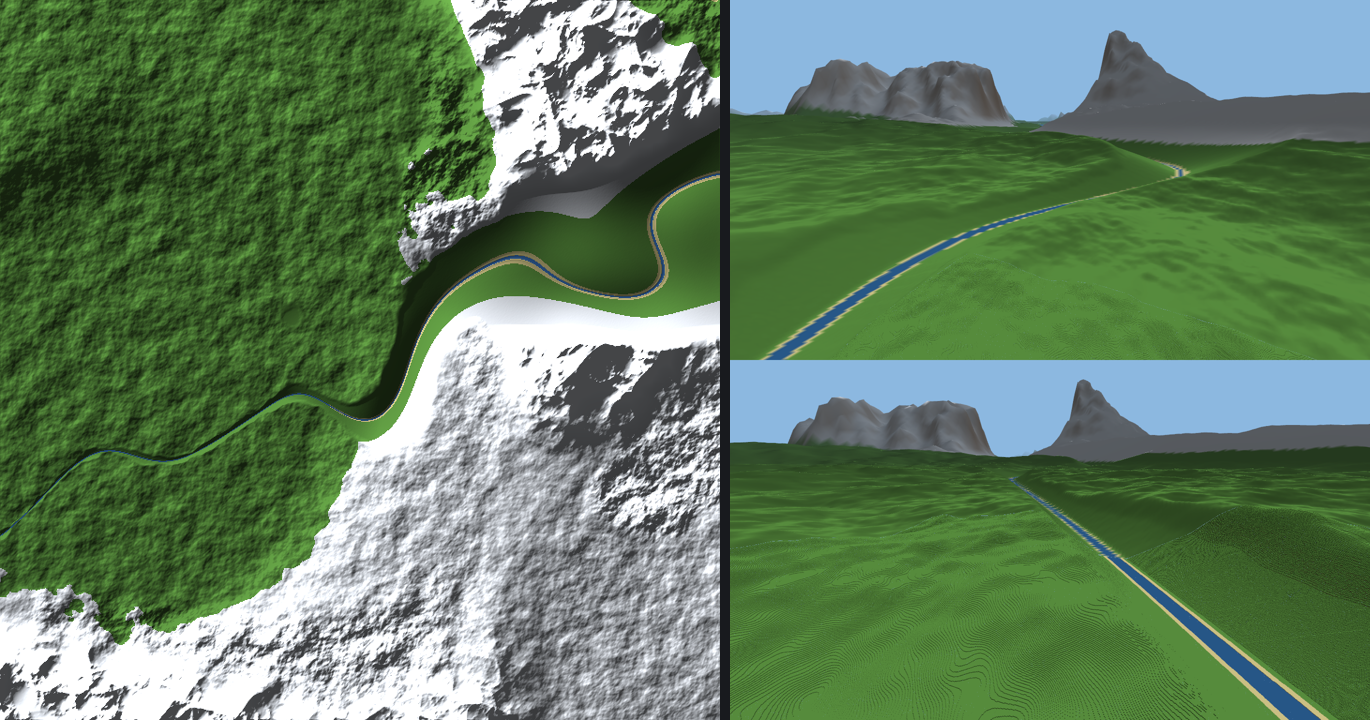
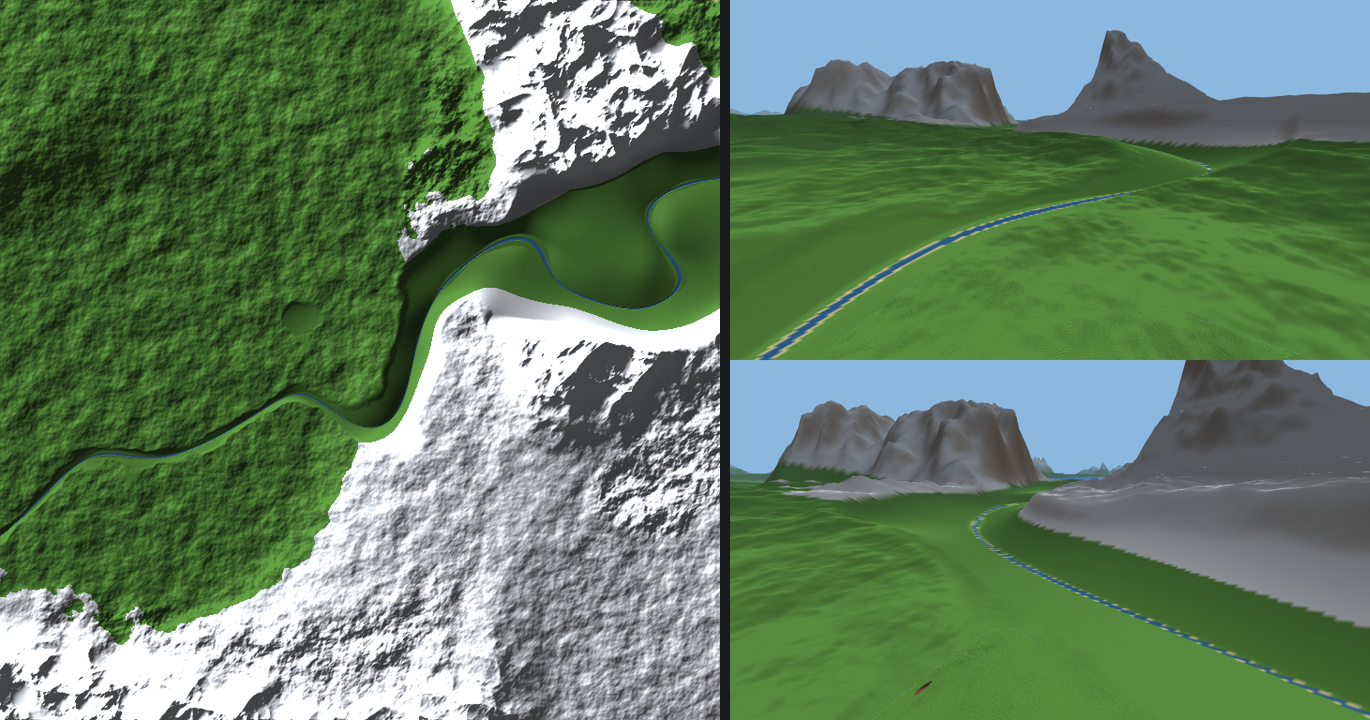
Р30: реки - сети монотонных спусков; разнообразие русел
Уровень воды = минимум земли на всём пути выше по течению (по дереву стока до истоков) минус блок:
только вниз и не выше земли; подъёмы прорезаются ущельем, обрывы дают водопады. Ширина, глубина,
пойма, крутизна стенок и извилистость меняются шумами вдоль реки (непрерывно).

diff --git a/src/world/rivers.cpp b/src/world/rivers.cpp
@@ -13,14 +13,13 @@ constexpr int64_t CELL = int64_t(1) << RIVER_CELL_LOG2;
 constexpr int WINDOW = 8;                                   // окно водосбора 17×17 узлов
 constexpr int CHAIN = 16;                                   // не дальше 16 звеньев
 constexpr int32_t AREA_MIN = 3;                             // река - с водосбора от 3 узлов
-constexpr int32_t MARGIN = 2 * VOXELS_PER_BLOCK;            // уровень воды ниже сглаженной высоты соседа
 constexpr int32_t WARP = 250 * VOXELS_PER_BLOCK;            // извилистость: сдвиг точки запроса
 constexpr int32_t VALLEY_CAP = 400 * VOXELS_PER_BLOCK;      // долина по глубине прорези - не шире на столько
 constexpr int SMOOTH_CUT = 15;                              // сглаженная высота - без форм мельче 2048 блоков
 // уклон к морю: потенциал стока = сглаженная высота + материковость · TILT; материковость падает к океану на
 // ~10 км - мелкие впадины не ловят сток, реки тянутся к побережью, хребты (сотни блоков) по-прежнему главнее
 constexpr int64_t TILT = 200 * VOXELS_PER_BLOCK;
-constexpr int GROUND_CUT = 10;                              // земля вдоль реки - без ряби мельче 64 блоков
+constexpr int GROUND_CUT = 9;                               // земля вдоль реки - без ряби мельче 32 блоков
 constexpr int DX[8] = {1, 1, 0, -1, -1, -1, 0, 1}, DZ[8] = {0, 1, 1, 1, 0, -1, -1, -1};
 
 struct Info {
@@ -30,9 +29,13 @@ struct Info {
     bool sea;
     int down = -2;      // -2: ещё не считали
     int32_t area = -1;  // -1: ещё не считали
+    bool leveled = false;
+    int32_t level = 0;              // Р30: уровень воды в узле
+    std::vector<int32_t> run;       // Р30: уровень вдоль вытекающего звена (пусто - ещё не считали)
 };
 
-// Узлы - в кэше потока: значения - чистые функции координат и зерна, порядок счёта на них не влияет
+// Узлы - в кэше потока: значения - чистые функции координат и зерна, порядок счёта на них не влияет.
+// (Ссылки на элементы unordered_map при росте таблицы не портятся.)
 struct Cache {
     std::unordered_map<uint64_t, Info> nodes;
     const TerrainParams* params = nullptr;
@@ -90,13 +93,54 @@ int32_t area(const TerrainParams& p, int32_t i, int32_t j) {
     return count;
 }
 
+// земля на линии реки минус блок (исходный рельеф без ряби мельче 32 блоков)
+int32_t groundLine(const TerrainParams& p, int64_t x, int64_t z) {
+    const SlowFields slow = slowAt(p, int32_t(x), int32_t(z), GROUND_CUT);
+    return baseReliefAt(p, int32_t(x), int32_t(z), slow, GROUND_CUT).height - VOXELS_PER_BLOCK;
+}
+
+const std::vector<int32_t>& outRun(const TerrainParams& p, int32_t i, int32_t j);
+
+// Р30: уровень воды в узле - минимум земли в нём и концов всех впадающих звеньев (притоков); по дереву стока
+// вверх до истоков (потенциал строго растёт вверх - рекурсия конечна)
 int32_t level(const TerrainParams& p, int32_t i, int32_t j) {
-    const int d = down(p, i, j);
+    if (Info& n = info(p, i, j); n.leveled) return n.level;
     const Info& n = info(p, i, j);
-    // расчётный уровень - по потенциалу (вниз по течению только падает); итоговый - ещё и не выше земли на линии
-    if (d < 0) return std::max(n.pot - MARGIN, p.seaLevel - 1);   // котловина - озеро; море - уровень моря
-    const Info& t = info(p, i + DX[d], j + DZ[d]);
-    return t.sea ? p.seaLevel - 1 : std::max(t.pot - MARGIN, p.seaLevel - 1);
+    int32_t lv = groundLine(p, n.px, n.pz);
+    for (int d = 0; d < 8; ++d) {
+        const int32_t ci = i + DX[d], cj = j + DZ[d];
+        const int cd = down(p, ci, cj);
+        if (cd >= 0 && ci + DX[cd] == i && cj + DZ[cd] == j) lv = std::min(lv, outRun(p, ci, cj).back());
+    }
+    Info& m = info(p, i, j);
+    m.level = std::max(lv, p.seaLevel - 1);
+    m.leveled = true;
+    return m.level;
+}
+
+// Р30: уровень вдоль вытекающего звена - бегущий минимум земли от уровня в узле; точки через ~RUN_STEP
+const std::vector<int32_t>& outRun(const TerrainParams& p, int32_t i, int32_t j) {
+    if (!info(p, i, j).run.empty()) return info(p, i, j).run;
+    const int32_t start = level(p, i, j);
+    const int d = down(p, i, j);
+    std::vector<int32_t> run;
+    if (d < 0) {
+        run.push_back(start);
+    } else {
+        const Info& a = info(p, i, j);
+        const Info& b = info(p, i + DX[d], j + DZ[d]);
+        const int64_t ex = b.px - a.px, ez = b.pz - a.pz;
+        const int n = int(std::max<int64_t>(1, (std::abs(ex) + std::abs(ez)) / RiverSet::RUN_STEP));
+        int32_t cur = start;
+        run.push_back(cur);
+        for (int k = 1; k <= n; ++k) {
+            cur = std::min(cur, groundLine(p, a.px + ex * k / n, a.pz + ez * k / n));
+            run.push_back(std::max(cur, p.seaLevel - 1));
+        }
+    }
+    Info& m = info(p, i, j);
+    m.run = std::move(run);
+    return m.run;
 }
 
 uint64_t isqrt(uint64_t v) {
@@ -110,6 +154,11 @@ uint64_t isqrt(uint64_t v) {
     return r;
 }
 
+// шум вдоль реки в [-1, 1] (у каждого свойства - своё зерно)
+inline fx::q16 vary(const TerrainParams& p, int32_t x, int32_t z, int cellLog2, uint32_t salt) {
+    return gen::simplex2(x, z, cellLog2, p.seed ^ salt);
+}
+
 }  // namespace
 
 void riverNeighbor(int32_t i, int32_t j, int dir, int32_t& ni, int32_t& nj) {
@@ -118,9 +167,17 @@ void riverNeighbor(int32_t i, int32_t j, int dir, int32_t& ni, int32_t& nj) {
 }
 
 RiverNode riverNode(const TerrainParams& p, int32_t i, int32_t j) {
+    if (g_cache.params != &p || g_cache.seed != p.seed) {
+        g_cache.nodes.clear();
+        g_cache.params = &p;
+        g_cache.seed = p.seed;
+    }
     const int d = down(p, i, j);
+    const int32_t a = info(p, i, j).sea ? 0 : area(p, i, j);
+    const int32_t lv = level(p, i, j);
+    const int32_t end = outRun(p, i, j).back();
     const Info& n = info(p, i, j);
-    return {n.px, n.pz, n.pot, n.sea, d, n.sea ? 0 : area(p, i, j), level(p, i, j)};
+    return {n.px, n.pz, n.pot, n.sea, d, a, lv, end};
 }
 
 void RiverSet::build(const TerrainParams& p, int32_t x0, int32_t z0, int32_t x1, int32_t z1) {
@@ -134,67 +191,42 @@ void RiverSet::build(const TerrainParams& p, int32_t x0, int32_t z0, int32_t x1,
     const auto cell = [](int64_t v) { return int32_t(v >= 0 ? v / CELL : -((-v + CELL - 1) / CELL)); };
     for (int32_t j = cell(z0 - margin); j <= cell(z1 + margin); ++j)
         for (int32_t i = cell(x0 - margin); i <= cell(x1 + margin); ++i) {
-            const Info& n = info(p, i, j);
-            if (n.sea) continue;
+            if (info(p, i, j).sea) continue;
             const int32_t a = area(p, i, j);
             if (a < AREA_MIN) continue;
             const int64_t s = int64_t(isqrt(uint64_t(a) << 16));   // √A · 256
             const int d = down(p, i, j);
             Seg g;
-            g.ax = n.px;
-            g.az = n.pz;
-            g.la = level(p, i, j);
+            g.ax = info(p, i, j).px;
+            g.az = info(p, i, j).pz;
             if (d >= 0) {   // река к соседу ниже
-                const Info& t = info(p, i + DX[d], j + DZ[d]);
-                g.bx = t.px;
-                g.bz = t.pz;
-                g.lb = t.sea ? p.seaLevel - 1 : (down(p, i + DX[d], j + DZ[d]) < 0 ? g.la : level(p, i + DX[d], j + DZ[d]));
+                g.bx = info(p, i + DX[d], j + DZ[d]).px;
+                g.bz = info(p, i + DX[d], j + DZ[d]).pz;
                 g.half = int32_t(24 + s * 14 / 256);
                 g.depth = int32_t(16 + s * 6 / 256);
                 g.valley = g.half + int32_t(384 + s * 80 / 256);
             } else {        // котловина - озеро
                 g.bx = g.ax;
                 g.bz = g.az;
-                g.lb = g.la;
                 g.half = int32_t(256 + s * 64 / 256);
                 g.depth = int32_t(32 + s * 5 / 256);
                 g.valley = g.half + 640;
             }
-            // задевает ли прямоугольник (с долиной и извилистостью)
-            const int64_t r = g.valley + VALLEY_CAP + WARP;
+            // задевает ли прямоугольник (с долиной, извилистостью и разбросом ширины)
+            const int64_t r = 2 * g.valley + VALLEY_CAP + 2 * WARP;
             if (std::max(g.ax, g.bx) + r < x0 || std::min(g.ax, g.bx) - r > x1 || std::max(g.az, g.bz) + r < z0 ||
                 std::min(g.az, g.bz) - r > z1)
                 continue;
-            // земля вдоль линии (исходный рельеф без ряби мельче 64 блоков)
-            const auto groundAt = [&](int64_t x, int64_t z) {
-                return baseReliefAt(p, int32_t(x), int32_t(z), slowAt(p, int32_t(x), int32_t(z), GROUND_CUT), GROUND_CUT).height;
-            };
             const int64_t ex = g.bx - g.ax, ez = g.bz - g.az;
             g.len = int64_t(isqrt(uint64_t(ex * ex + ez * ez)));
-            if (g.len > 0) {
-                // нужна только часть звена напротив прямоугольника (с долиной и извилистостью)
-                int64_t umin = g.len, umax = 0;
-                for (int c = 0; c < 4; ++c) {
-                    const int64_t cx = ((c & 1) ? x1 + r : x0 - r) - g.ax, cz = ((c & 2) ? z1 + r : z0 - r) - g.az;
-                    const int64_t u = (cx * ex + cz * ez) / g.len;
-                    umin = std::min(umin, u);
-                    umax = std::max(umax, u);
-                }
-                const int32_t last = int32_t((g.len + GROUND_STEP - 1) / GROUND_STEP);
-                g.k0 = int32_t(std::clamp<int64_t>(umin / GROUND_STEP - 1, 0, last));
-                const int32_t k1 = int32_t(std::clamp<int64_t>(umax / GROUND_STEP + 2, g.k0, last));
-                for (int32_t k = g.k0; k <= k1; ++k) {
-                    const int64_t u = std::min<int64_t>(int64_t(k) * GROUND_STEP, g.len);
-                    g.ground.push_back(groundAt(g.ax + ex * u / g.len, g.az + ez * u / g.len));
-                }
-            } else {
-                // озеро: уровень не выше самой низкой точки кольца берега минус блок - вода не переливается стеной
+            g.run = outRun(p, i, j);
+            if (d < 0) {
+                // озеро: уровень не выше самой низкой точки кольца берега - вода не переливается стеной
                 int32_t rim = INT32_MAX;
-                for (int k = 0; k < 8; ++k) {
-                    static constexpr int RX[8] = {2, 1, 0, -1, -2, -1, 0, 1}, RZ[8] = {0, 1, 2, 1, 0, -1, -2, -1};
-                    rim = std::min(rim, groundAt(g.ax + RX[k] * g.half / 2, g.az + RZ[k] * g.half / 2));
-                }
-                g.la = g.lb = std::max(std::min(g.la, rim - VOXELS_PER_BLOCK), p.seaLevel - 1);
+                static constexpr int RX[8] = {2, 1, 0, -1, -2, -1, 0, 1}, RZ[8] = {0, 1, 2, 1, 0, -1, -2, -1};
+                for (int k = 0; k < 8; ++k)
+                    rim = std::min(rim, groundLine(p, g.ax + RX[k] * g.half / 2, g.az + RZ[k] * g.half / 2));
+                g.run = {std::max(std::min(g.run[0], rim), p.seaLevel - 1)};
             }
             segs.push_back(std::move(g));
         }
@@ -202,9 +234,20 @@ void RiverSet::build(const TerrainParams& p, int32_t x0, int32_t z0, int32_t x1,
 
 void RiverSet::apply(const TerrainParams& p, int32_t x, int32_t z, int32_t& h, int32_t& water, bool& shore) const {
     if (segs.empty()) return;
+    // Р30: разнообразие вдоль реки - медленные шумы в точке (непрерывны - шва нет)
+    const fx::q16 nWidth = vary(p, x, z, 12, 0x1D7u), nDepth = vary(p, x, z, 12, 0x2E9u);
+    const fx::q16 nPlain = vary(p, x, z, 13, 0x3F1u), nBank = vary(p, x, z, 13, 0x4A3u), nWarp = vary(p, x, z, 15, 0x5B7u);
+    const fx::q16 kWidth = fx::ONE * 11 / 10 + nWidth / 2;            // ширина русла ×0.6..1.6
+    const fx::q16 kDepth = fx::ONE + nDepth * 3 / 10;                 // глубина ×0.7..1.3
+    const fx::q16 kPlain = fx::ONE * 7 / 4 + nPlain * 5 / 4;          // ширина поймы ×0.5..3 (в ширинах русла)
+    // стенки долины 1:2..1:8 - заложение bankRun = 5 + 3·шум (Q16, непрерывно: целый делитель прыгал бы
+    // на переходе 4 -> 5 - разрыв стенок на сотни вокселей)
+    const int64_t bankRun = 5 * int64_t(fx::ONE) + 3 * int64_t(nBank);
+    const fx::q16 kWarp = fx::ONE * 9 / 10 + nWarp * 6 / 10;          // извилистость ×0.3..1.5
     // извилистость: точку запроса сдвигаем медленным шумом - русла петляют (сам рельеф этим не искажается)
-    const int64_t qx = x + ((int64_t(gen::simplex2(x, z, 14, p.seed ^ 0x3A11Du)) * WARP) >> fx::SHIFT);
-    const int64_t qz = z + ((int64_t(gen::simplex2(x, z, 14, p.seed ^ 0x7B23Fu)) * WARP) >> fx::SHIFT);
+    const int64_t warp = (int64_t(WARP) * kWarp) >> fx::SHIFT;
+    const int64_t qx = x + ((int64_t(gen::simplex2(x, z, 14, p.seed ^ 0x3A11Du)) * warp) >> fx::SHIFT);
+    const int64_t qz = z + ((int64_t(gen::simplex2(x, z, 14, p.seed ^ 0x7B23Fu)) * warp) >> fx::SHIFT);
     const int32_t h0 = h, water0 = water;   // water0 - вода до рек (море)
     int32_t levee = INT32_MIN;   // вал: земля не ниже воды у берега (если точка не в русле и не в море)
     bool channel = false;
@@ -216,34 +259,36 @@ void RiverSet::apply(const TerrainParams& p, int32_t x, int32_t z, int32_t& h, i
         if (len2 > 0) t = std::clamp<int64_t>(((px * ex + pz * ez) << 16) / len2, 0, fx::ONE);
         const int64_t dx = px - ((ex * t) >> 16), dz = pz - ((ez * t) >> 16);
         const int64_t d2 = dx * dx + dz * dz;
-        const int64_t reach = g.valley + VALLEY_CAP;   // дальше любой долины этого звена
+        const int64_t reach = 2 * g.valley + VALLEY_CAP;   // дальше любой долины этого звена
         if (d2 >= reach * reach) continue;
         const int32_t d = int32_t(isqrt(uint64_t(d2)));
-        int32_t lw = g.la + int32_t((int64_t(g.lb - g.la) * t) >> 16);   // уровень воды здесь
-        if (g.len > 0 && !g.ground.empty()) {
-            // не выше земли на линии реки минус блок (точки - через GROUND_STEP от начала звена, между - линейно)
-            const int64_t u = (g.len * t) >> 16;
-            const int64_t k = u / GROUND_STEP, f = u - k * GROUND_STEP;
-            const int64_t i0 = std::clamp<int64_t>(k - g.k0, 0, int64_t(g.ground.size()) - 1);
-            const int64_t i1 = std::min<int64_t>(i0 + 1, int64_t(g.ground.size()) - 1);
-            const int32_t line = g.ground[i0] + int32_t(int64_t(g.ground[i1] - g.ground[i0]) * f / GROUND_STEP);
-            lw = std::max(std::min(lw, line - VOXELS_PER_BLOCK), p.seaLevel - 1);
+        // уровень воды: точки бегущего минимума вдоль звена, между ними - линейно (Р30)
+        int32_t lw = g.run[0];
+        if (g.run.size() > 1) {
+            const int64_t n = int64_t(g.run.size()) - 1;
+            const int64_t num = t * n;   // Q16 · n
+            const int64_t k = std::min<int64_t>(num >> 16, n - 1), f = num - (k << 16);
+            lw = g.run[size_t(k)] + int32_t((int64_t(g.run[size_t(k) + 1] - g.run[size_t(k)]) * f) >> 16);
         }
-        // профиль долины: в русле - дно чашей; пойма шириной в русло - на блок выше воды; дальше стенки 1:4
+        const int32_t half = std::max<int32_t>(16, int32_t((int64_t(g.half) * (g.len > 0 ? kWidth : fx::ONE)) >> fx::SHIFT));
+        const int32_t depth = int32_t((int64_t(g.depth) * kDepth) >> fx::SHIFT);
+        const int32_t plain = half + int32_t((int64_t(half) * kPlain) >> fx::SHIFT);
+        // профиль долины: в русле - дно чашей; пойма - на блок выше воды; дальше стенки с заложением bankRun
         int32_t profile;
-        if (d < g.half) profile = lw - g.depth + int32_t(int64_t(g.depth) * d * d / (int64_t(g.half) * g.half));
-        else if (d < 2 * g.half) profile = lw + 1;
-        else profile = lw + 1 + (d - 2 * g.half) / 4;
+        if (d < half) profile = lw - depth + int32_t(int64_t(depth) * d * d / (int64_t(half) * half));
+        else if (d < plain) profile = lw + 1;
+        else profile = lw + 1 + int32_t((int64_t(d - plain) << fx::SHIFT) / bankRun);
         // маска: только прорезает, к краю долины - исходный рельеф. Ширина долины - по глубине прорези в этой
-        // точке: на равнине - широкая пологая, в горах - V-образная (стенки не круче ~0.75), не шире VALLEY_CAP
-        const int32_t radius = std::clamp(2 * g.half + 4 * std::max(0, h0 - lw), g.valley, g.valley + VALLEY_CAP);
+        // точке: на равнине - широкая пологая, в горах - V-образная, не шире VALLEY_CAP
+        const int32_t radius = int32_t(std::clamp<int64_t>(plain + ((bankRun * std::max(0, h0 - lw)) >> fx::SHIFT),
+                                                           g.valley, g.valley + VALLEY_CAP));
         const fx::q16 w = fx::ONE - fx::smoothstep(radius * 6 / 10, radius, d);
         h = std::min(h, h0 + int32_t((int64_t(w) * std::min(0, profile - h0)) >> fx::SHIFT));
         // вал у берега - насыпью: у кромки на воксель выше воды, наружу снижается 1:1, пока не встретит землю
         // (в море у устья вал не нужен - там уже вода не ниже реки)
-        if (d >= g.half && water0 < lw) levee = std::max(levee, lw + 1 - (d - g.half));
-        if (d < g.half) { water = std::max(water, lw); channel = true; }
-        if (d < g.half + 2 * VOXELS_PER_BLOCK) shore = true;
+        if (d >= half && water0 < lw) levee = std::max(levee, lw + 1 - (d - half));
+        if (d < half) { water = std::max(water, lw); channel = true; }
+        if (d < half + 2 * VOXELS_PER_BLOCK) shore = true;
     }
     if (!channel && levee > h) h = levee;
 }

diff --git a/src/world/rivers.h b/src/world/rivers.h
@@ -1,5 +1,5 @@
 #pragma once
-// Реки и озёра (Р29). Местной формулой (Р2), без глобального прохода:
+// Реки и озёра (Р29, Р30). Местной формулой (Р2), без глобального прохода:
 //   - узлы сетки через 2^RIVER_CELL_LOG2 вокселей (2048 блоков), каждый сдвинут хешем в своей клетке;
 //   - в узле - потенциал стока: сглаженная высота рельефа (без форм мельче 2 км: материк, плато, массивы цепей)
 //     плюс уклон к морю (материковость · 200 блоков) - мелкие впадины не рвут сток на бассейны-лужицы;
@@ -7,9 +7,13 @@
 //     все соседи выше - котловина, там озеро; узел ниже уровня моря - море, там река кончается;
 //   - полноводность A - сколько узлов окна 17×17 стекают в этот (не дальше 16 звеньев): от порядка счёта не
 //     зависит; ширина, глубина русла и радиус долины растут как √A;
-//   - уровень воды на звене N -> D: сглаженная высота D минус запас, не ниже моря; вниз по течению только падает.
-// Рельеф меняется маской: в русле - дно чашей, от берега - стенки долины, к краю долины - исходный рельеф;
-// долина только прорезает, кроме узкого вала у берега (держит воду там, где земля ниже реки).
+//   - Р30: уровень воды в точке реки - минимум земли (исходный рельеф) на ВСЁМ пути выше по течению, со всеми
+//     притоками, минус блок. Только вниз и никогда не выше земли на линии реки - по построению; где земля после
+//     ложбины снова растёт, река прорезает подъём ущельем; где земля обрывается - уровень падает ступенью
+//     (водопад), где спускается полого - пологий сход. Считается по дереву стока вверх до истоков - точно,
+//     запоминается на узел.
+// Рельеф меняется маской: в русле - дно чашей, пойма, стенки долины, к краю долины - исходный рельеф;
+// долина только прорезает, кроме вала у берега (держит воду там, где земля ниже реки).
 #include <cstdint>
 #include <vector>
 
@@ -26,25 +30,23 @@ struct RiverNode {
     bool sea;           // ниже уровня моря - река здесь кончается
     int down;           // в какого соседа стекает: 0..7, -1 - никуда (котловина или море)
     int32_t area;       // полноводность A, узлов
-    int32_t level;      // уровень воды реки, вытекающей из узла (или озера в котловине), воксели
+    int32_t level;      // уровень воды в узле (Р30), воксели
+    int32_t outEnd;     // уровень воды в конце вытекающего звена (у соседа ниже), воксели
 };
 RiverNode riverNode(const TerrainParams& p, int32_t i, int32_t j);
 void riverNeighbor(int32_t i, int32_t j, int dir, int32_t& ni, int32_t& nj);
 
 // Звенья рек и озёра, задевающие прямоугольник, - собираются один раз на кусок или плитку
 struct RiverSet {
+    static constexpr int32_t RUN_STEP = 16 * VOXELS_PER_BLOCK;   // шаг точек уровня вдоль звена
     struct Seg {
         int64_t ax, az, bx, bz;     // от узла к соседу ниже по течению; у озера a = b - центр
-        int32_t la, lb;             // уровень воды в начале и в конце
+        int64_t len;                // длина звена, воксели (у озера 0)
         int32_t half, depth, valley;   // полуширина русла (у озера - радиус), глубина, радиус долины; воксели
-        // Земля вдоль линии реки (исходный рельеф без мелкой ряби) - через каждые GROUND_STEP вокселей от начала
-        // звена; точки - глобальные (от узла), одинаковы для любого куска и плитки. Уровень воды - не выше земли
-        // на линии минус блок: над провалом река опускается в омут, а не висит акведуком.
-        int64_t len;                    // длина звена, воксели
-        int32_t k0 = 0;                 // номер первой посчитанной точки
-        std::vector<int32_t> ground;
+        // уровень воды вдоль звена - через RUN_STEP от начала (минимум земли на пути выше, минус блок);
+        // у озера - одно число
+        std::vector<int32_t> run;
     };
-    static constexpr int32_t GROUND_STEP = 16 * VOXELS_PER_BLOCK;
     std::vector<Seg> segs;
     void build(const TerrainParams& p, int32_t x0, int32_t z0, int32_t x1, int32_t z1);
     // Рельеф и вода столбца с учётом рек: h - высота дна (меняется), water - уровень воды (поднимается),

diff --git a/docs/решения.md b/docs/решения.md
@@ -578,6 +578,30 @@
 **Пока:** водосборы небольшие (до 13 узлов) - материки «архипелажные», реки быстро добегают до моря; большие
 бассейны - с континентальным принципом.
 
+## Р30. Реки - сети монотонных спусков; разнообразие русел (30.10.2026)
+
+Замечания пользователя: в низинах реки однотипные - нет шума ни у русла, ни у крутизны берегов; в горах река -
+«американские горки» (подъём, спуск, снова подъём, иногда выше окружающего рельефа), а должны быть сети
+градиентных спусков; реки должны провоцировать ток воды вниз и давать естественные сходы - водопады и пологие спуски.
+
+- **Причина горок:** уровень воды брался как min(расчётный, земля на линии - 1) и повторял землю вверх-вниз.
+- **Новое правило уровня:** уровень в точке реки = минимум земли (исходный рельеф без ряби мельче 32 блоков) на
+  ВСЁМ пути выше по течению, со всеми притоками, минус блок. В узле - минимум земли в нём и концов всех впадающих
+  звеньев; вдоль звена - бегущий минимум (точки через ~16 блоков). Только вниз и не выше земли на линии - по
+  построению. Где земля после ложбины снова растёт - река прорезает подъём ущельем (долина по глубине прорези);
+  где земля обрывается - уровень падает ступенью (водопад); где спускается полого - пологий сход.
+  Считается по дереву стока вверх до истоков (потенциал вверх строго растёт - рекурсия конечна), точно, без
+  обрезки по глубине - детерминировано; запоминается на узел.
+- **Разнообразие вдоль реки** - медленные шумы в точке (непрерывны, шва нет): ширина русла ×0.6..1.6, глубина
+  ±30%, ширина поймы ×0.5..3 (в ширинах русла), стенки долины 1:2..1:8, извилистость ×0.3..1.5.
+  Найдено проверкой: крутизна стенок целым делителем прыгала (4 -> 5) - разрыв на сотни вокселей; теперь
+  заложение непрерывно (Q16).
+
+**Проверено:** реки только вниз, уровень вниз по течению не растёт, на проходе 50 км нет ступенек (наибольший
+шаг 12 вокселей, как в горах). Снимок - `docs/реки.png`.
+**Для течений (дальше):** направление тока - вдоль звена, скорость - по падению уровня на точках бегущего
+минимума и сечению русла; водопады - места резкого падения уровня.
+
 ## Не решено, обсудить до первой строки кода
 
 - ~~Точная высота мира в ячейках~~ — решено 29.10.2026, см. Р10.
